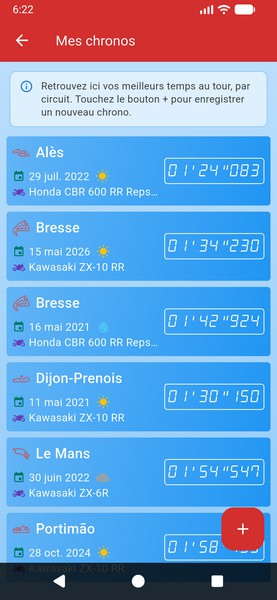
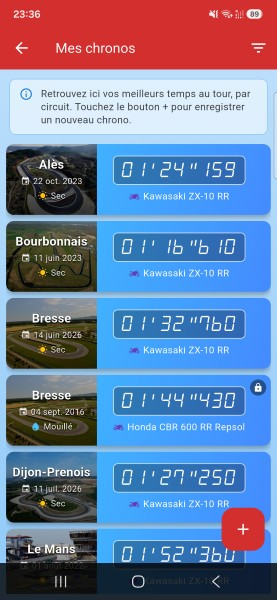
reworked UI of chrono list page, fixes #57

diff --git a/lib/ui/laprecord/member_chronos.dart b/lib/ui/laprecord/member_chronos.dart
@@ -404,103 +404,206 @@ class _MemberChronosState extends State<MemberChronos> {
   }
 
   Widget _buildRecordRow(BuildContext context, Record record, RecordListProvider recordListProvider) {
-    return InkWell(
-      onTap: () async {
-        Provider.of<RecordDetailProvider>(context, listen: false).setCurrentRecord(record);
-        await Navigator.pushNamed(context, '/chronoDetail');
-        if (!context.mounted) return;
-        recordListProvider.fetchMyRecords();
-      },
-      child: Container(
-        padding: EdgeInsets.all(8.0),
-        decoration: CustomDecorations.cardFull,
-        height: 90,
-        child: Row(
-          crossAxisAlignment: CrossAxisAlignment.center,
-          children: <Widget>[
-            Expanded(
-              child: Column(
-                mainAxisAlignment: MainAxisAlignment.center,
-                crossAxisAlignment: CrossAxisAlignment.start,
-                children: <Widget>[
-                  Row(
-                    children: <Widget>[
-                      Icon(TrackUtils.iconForTrack(record.track), size: 22, color: Colors.red[600]),
-                      SizedBox(width: 8.0),
-                      Expanded(
-                        child: Text(
-                          record.track?.name ?? AppString.notDefined,
-                          textScaler: TextScaler.linear(1.3),
-                          style: TextStyle(color: Colors.white, fontWeight: FontWeight.w500),
-                          maxLines: 1,
-                          overflow: TextOverflow.ellipsis,
-                        ),
-                      ),
-                    ],
-                  ),
-                  SizedBox(height: 8.0),
-                  Row(
-                    children: <Widget>[
-                      Icon(Icons.event, size: 16, color: Colors.teal[700]),
-                      SizedBox(width: 5.0),
-                      Text(
-                        AppDateUtils.convertToString(record.recordDate!, 'dd MMM yyyy') ?? "",
-                        style: TextStyle(color: Colors.white),
-                        maxLines: 1,
-                        overflow: TextOverflow.ellipsis,
-                      ),
-                      if (TrackUtils.trackConditionIconData(record.conditions) != null) ...[
-                        SizedBox(width: 8.0),
-                        Icon(
-                          TrackUtils.trackConditionIconData(record.conditions),
-                          size: 18,
-                          color: TrackUtils.trackConditionColor(record.conditions),
-                        ),
-                      ],
-                    ],
-                  ),
-                  Row(
-                    children: <Widget>[
-                      Icon(CustomIcons.motorbike_plain, size: 16, color: Colors.deepPurple),
-                      SizedBox(width: 5.0),
-                      Expanded(
-                        child: Text(
-                          record.bike != null
-                              ? "${StringUtils.capitalize(record.bike!.manufacturer ?? '')} ${record.bike!.modelName ?? ''}"
-                              : AppString.notDefined,
-                          style: TextStyle(color: Colors.white),
-                          maxLines: 1,
-                          overflow: TextOverflow.ellipsis,
-                        ),
-                      ),
-                    ],
-                  ),
-                ],
-              ),
+    final String lapTime = AppDateUtils.toLapTimeString(record.lapTime) ?? '—';
+    final IconData? weatherIcon = TrackUtils.trackConditionIconData(record.conditions);
+    final String bikeLabel = record.bike != null
+        ? "${StringUtils.capitalize(record.bike!.manufacturer ?? '')} ${record.bike!.modelName ?? ''}".trim()
+        : AppString.notDefined;
+    final String dateLabel = record.recordDate != null
+        ? (AppDateUtils.convertToString(record.recordDate!, 'dd MMM yyyy') ?? '')
+        : '';
+
+    return Card(
+      margin: EdgeInsets.zero,
+      shape: RoundedRectangleBorder(borderRadius: BorderRadius.circular(10.0)),
+      elevation: 4,
+      clipBehavior: Clip.antiAlias,
+      child: InkWell(
+        onTap: () async {
+          Provider.of<RecordDetailProvider>(context, listen: false).setCurrentRecord(record);
+          await Navigator.pushNamed(context, '/chronoDetail');
+          if (!context.mounted) return;
+          recordListProvider.fetchMyRecords();
+        },
+        child: Container(
+          decoration: const BoxDecoration(
+            gradient: LinearGradient(
+              colors: <Color>[Colors.lightBlueAccent, Colors.blueAccent],
+              begin: Alignment.topLeft,
+              end: Alignment.bottomRight,
             ),
-            SizedBox(width: 8.0),
-            // private chronos are only visible here, flag them with a lock
-            if (record.isPublic == false) ...[
-              Tooltip(
-                message: AppString.recordVisibilityPrivate,
-                child: Icon(Icons.lock, size: 18, color: Colors.red[700]),
-              ),
-              SizedBox(width: 8.0),
-            ],
-            Container(
-              padding: EdgeInsets.symmetric(horizontal: 4.0, vertical: 0.0),
-              decoration: BoxDecoration(
-                shape: BoxShape.rectangle,
-                borderRadius: BorderRadius.circular(4.0),
-                border: Border.all(color: Colors.white),
-              ),
-              child: Text(
-                AppDateUtils.toLapTimeString(record.lapTime) ?? "",
-                style: TextStyle(fontFamily: "AlarmClock", color: Colors.white),
-                textScaler: TextScaler.linear(1.6),
-              ),
+          ),
+          child: SizedBox(
+            height: 92,
+            child: Stack(
+              children: <Widget>[
+                Row(
+                  crossAxisAlignment: CrossAxisAlignment.stretch,
+                  children: <Widget>[
+                    // left: circuit cover with the circuit name + date laid over it
+                    SizedBox(
+                      width: 118,
+                      child: Stack(
+                        fit: StackFit.expand,
+                        children: <Widget>[
+                          Image.asset(
+                            TrackUtils.coverImageForCircuit(record.track?.circuit),
+                            fit: BoxFit.cover,
+                            errorBuilder: (_, __, ___) => Container(color: Colors.blueGrey),
+                          ),
+                          // darken the photo so the overlaid name/date stay readable
+                          DecoratedBox(
+                            decoration: BoxDecoration(
+                              gradient: LinearGradient(
+                                begin: Alignment.topCenter,
+                                end: Alignment.bottomCenter,
+                                colors: <Color>[
+                                  Colors.black.withValues(alpha: 0.30),
+                                  Colors.black.withValues(alpha: 0.60),
+                                ],
+                              ),
+                            ),
+                          ),
+                          Padding(
+                            padding: const EdgeInsets.symmetric(horizontal: 8.0, vertical: 8.0),
+                            child: Column(
+                              mainAxisAlignment: MainAxisAlignment.center,
+                              crossAxisAlignment: CrossAxisAlignment.center,
+                              children: <Widget>[
+                                Text(
+                                  record.track?.name ?? AppString.notDefined,
+                                  textAlign: TextAlign.center,
+                                  style: const TextStyle(
+                                    color: Colors.white,
+                                    fontSize: 16.0,
+                                    fontWeight: FontWeight.bold,
+                                    height: 1.15,
+                                    shadows: [Shadow(color: Colors.black, blurRadius: 4.0, offset: Offset(0, 1))],
+                                  ),
+                                  maxLines: 2,
+                                  overflow: TextOverflow.ellipsis,
+                                ),
+                                const SizedBox(height: 5.0),
+                                Row(
+                                  mainAxisSize: MainAxisSize.min,
+                                  children: <Widget>[
+                                    Icon(Icons.event, size: 12.0, color: Colors.white.withValues(alpha: 0.9)),
+                                    const SizedBox(width: 4.0),
+                                    Flexible(
+                                      child: Text(
+                                        dateLabel,
+                                        style: const TextStyle(
+                                          color: Colors.white,
+                                          fontSize: 11.0,
+                                          shadows: [Shadow(color: Colors.black, blurRadius: 4.0, offset: Offset(0, 1))],
+                                        ),
+                                        maxLines: 1,
+                                        overflow: TextOverflow.ellipsis,
+                                      ),
+                                    ),
+                                  ],
+                                ),
+                                if (weatherIcon != null) ...[
+                                  const SizedBox(height: 3.0),
+                                  Row(
+                                    mainAxisSize: MainAxisSize.min,
+                                    children: <Widget>[
+                                      Icon(
+                                        weatherIcon,
+                                        size: 13.0,
+                                        color: TrackUtils.trackConditionColor(record.conditions),
+                                      ),
+                                      const SizedBox(width: 4.0),
+                                      Flexible(
+                                        child: Text(
+                                          _conditionLabel(record.conditions),
+                                          style: const TextStyle(
+                                            color: Colors.white,
+                                            fontSize: 11.0,
+                                            shadows: [
+                                              Shadow(color: Colors.black, blurRadius: 4.0, offset: Offset(0, 1)),
+                                            ],
+                                          ),
+                                          maxLines: 1,
+                                          overflow: TextOverflow.ellipsis,
+                                        ),
+                                      ),
+                                    ],
+                                  ),
+                                ],
+                              ],
+                            ),
+                          ),
+                        ],
+                      ),
+                    ),
+                    // right: the chrono (big) with the bike below it
+                    Expanded(
+                      child: Padding(
+                        // extra right room so the top-right private lock never sits over the chrono
+                        padding: const EdgeInsets.fromLTRB(18.0, 8.0, 30.0, 4.0),
+                        child: Column(
+                          mainAxisAlignment: MainAxisAlignment.center,
+                          children: <Widget>[
+                            FittedBox(
+                              fit: BoxFit.scaleDown,
+                              child: Container(
+                                padding: const EdgeInsets.symmetric(horizontal: 10.0, vertical: 4.0),
+                                decoration: BoxDecoration(
+                                  color: Colors.black.withValues(alpha: 0.3),
+                                  borderRadius: BorderRadius.circular(6.0),
+                                  border: Border.all(color: Colors.white.withValues(alpha: 0.8), width: 1.0),
+                                ),
+                                child: Text(
+                                  lapTime,
+                                  style: const TextStyle(
+                                    fontFamily: 'AlarmClock',
+                                    color: Colors.white,
+                                    fontSize: 28.0,
+                                    height: 1.0,
+                                  ),
+                                ),
+                              ),
+                            ),
+                            const SizedBox(height: 6.0),
+                            Row(
+                              mainAxisSize: MainAxisSize.min,
+                              children: <Widget>[
+                                const Icon(CustomIcons.motorbike_plain, size: 13.0, color: Colors.deepPurple),
+                                const SizedBox(width: 5.0),
+                                Flexible(
+                                  child: Text(
+                                    bikeLabel,
+                                    style: const TextStyle(color: Colors.white, fontSize: 12.5),
+                                    maxLines: 1,
+                                    overflow: TextOverflow.ellipsis,
+                                  ),
+                                ),
+                              ],
+                            ),
+                          ],
+                        ),
+                      ),
+                    ),
+                  ],
+                ),
+                // private chronos are only visible here, flag them with a discreet lock badge
+                if (record.isPublic == false)
+                  Positioned(
+                    top: 6.0,
+                    right: 6.0,
+                    child: Tooltip(
+                      message: AppString.recordVisibilityPrivate,
+                      child: Container(
+                        padding: const EdgeInsets.all(4.0),
+                        decoration: BoxDecoration(color: Colors.black.withValues(alpha: 0.45), shape: BoxShape.circle),
+                        child: const Icon(Icons.lock, size: 13.0, color: Colors.white),
+                      ),
+                    ),
+                  ),
+              ],
             ),
-          ],
+          ),
         ),
       ),
     );
